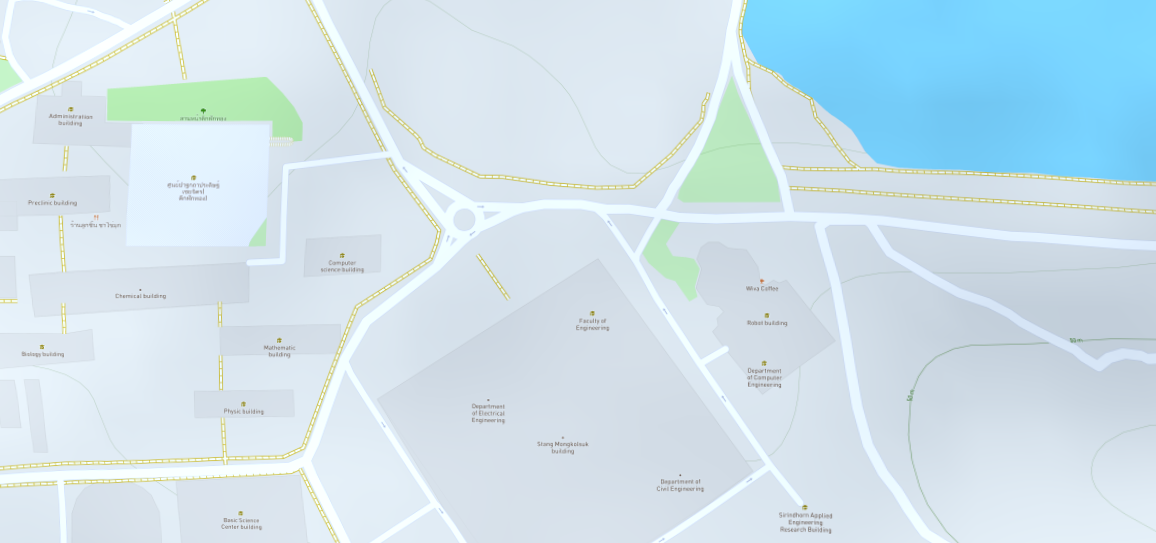
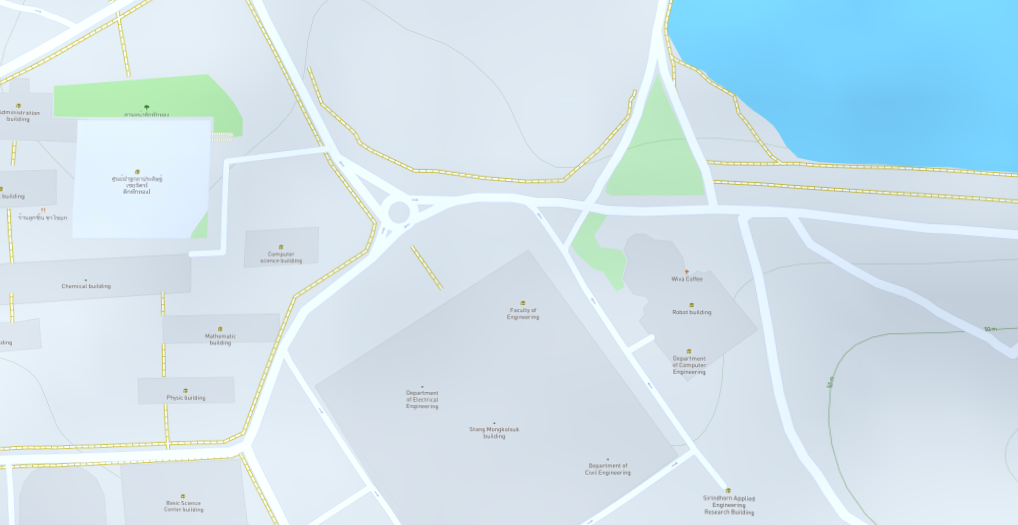
hotfixed
unlimited readpic fixed

diff --git a/Assets/ReportPageController.cs b/Assets/ReportPageController.cs
@@ -45,6 +45,10 @@ public class ReportPageController : MonoBehaviour
     Texture2D[] animate_texture_E;
     Texture2D[] animate_texture_I;
 
+    bool finishread_text=false;
+    bool finishread_pic=true;
+
+    bool firsttimeread=true;
     //end object
 //==============================================
     //Other Script
@@ -53,6 +57,7 @@ public class ReportPageController : MonoBehaviour
     public GameObject doglayer;
 
     public GameObject infectlayer;
+
 
 //==============================================
     
@@ -64,6 +69,7 @@ public class ReportPageController : MonoBehaviour
       Showreport_button.GetComponent<Button>().onClick.AddListener(showreportpage);
       Animation_button.GetComponent<Button>().onClick.AddListener(Runanimate_map);
       dropdownday_heatmappage.onValueChanged.AddListener(delegate {Rereadanimate_Image(dropdownday_heatmappage);});
+      dropdownday_reportpage.onValueChanged.AddListener(delegate { readtextfile(dropdownday_reportpage.value);});
       systemday=mapdata.dayloop;
       frameperday=mapdata.loopperday;
       for(int j=1;j<systemday;j++)
@@ -83,7 +89,15 @@ public class ReportPageController : MonoBehaviour
     {
        if(reportpage.activeSelf)
         {
-            readtextfile(dropdownday_reportpage.value);
+            if(firsttimeread)
+            {
+                firsttimeread=false;
+                Rereadanimate_Image(dropdownday_heatmappage);
+                readtextfile(dropdownday_reportpage.value);
+                readimage_S(dropdownday_heatmappage.value);
+                readimage_E(dropdownday_heatmappage.value);
+                readimage_I(dropdownday_heatmappage.value);
+            }
         }
         else if (heatmappage.activeSelf)
         {
@@ -91,6 +105,7 @@ public class ReportPageController : MonoBehaviour
             if(Animate_onrun)
             {
                     Animation_button_text.text="Stop Animation";
+                    finishread_pic=true;
                     int animateindex = (int)((Time.time * framepersec) % animate_texture_S.Length);
                     S_image.texture=animate_texture_S[animateindex];
                     E_image.texture=animate_texture_E[animateindex];
@@ -98,10 +113,15 @@ public class ReportPageController : MonoBehaviour
             }
             if(!Animate_onrun)
             {
+                if(finishread_pic)
+                {
+                finishread_pic=false;
                 Animation_button_text.text="Run Animation";
-                 readimage_S(dropdownday_heatmappage.value);
-                 readimage_E(dropdownday_heatmappage.value);
-                 readimage_I(dropdownday_heatmappage.value);
+                readimage_S(dropdownday_heatmappage.value);
+                readimage_E(dropdownday_heatmappage.value);
+                readimage_I(dropdownday_heatmappage.value);
+                }
+                
             }
         }
     }
@@ -129,7 +149,6 @@ public class ReportPageController : MonoBehaviour
         heatmappage.SetActive(true);
         doglayer.SetActive(false);
         infectlayer.SetActive(false);
-        Rereadanimate_Image(dropdownday_heatmappage);
     }
     private void showreportpage()
     {
@@ -248,7 +267,17 @@ public class ReportPageController : MonoBehaviour
             animate_texture_E[i].LoadImage(pngBytes_E);
             pngBytes_I=System.IO.File.ReadAllBytes(path_i);
             animate_texture_I[i].LoadImage(pngBytes_I);
+
+              
         }
+
+        if(!Animate_onrun)
+        {
+                readimage_S(dropdownday_heatmappage.value);
+                readimage_E(dropdownday_heatmappage.value);
+                readimage_I(dropdownday_heatmappage.value);
+        }
+              
     }
 
 }

diff --git a/Assets/OnMapSpawn.cs b/Assets/OnMapSpawn.cs
@@ -238,7 +238,7 @@ public class OnMapSpawn : MonoBehaviour
     public GameObject reportpage;
 
     private Texture2D temp_realmap,temp_extendmap;
-
+    
     //FOR INSTRUCTION UI
     Ray ray;
     RaycastHit hit;
@@ -2045,10 +2045,10 @@ public class OnMapSpawn : MonoBehaviour
         StreamWriter sw = File.CreateText(path);
         sw.WriteLine("Tester : All sum rabies tranfer" + justwannaknow + " Tester : All sum rabies bite" + justwannaknow2 + " Tester : avg rabie bite" + justwannaknow3 + "  New r0 with all r use to divide " + newr0 + "\n");
         sw.WriteLine("Rabies Report day " + rentext_sysdate + "\n");
-        sw.WriteLine("All Dog Amount : " + sumeverypoint());
-        sw.WriteLine("Suspect amount : " + suspectsum());
-        sw.WriteLine("Expose amount : " + exposesum());
-        sw.WriteLine("Infect amount : " + infectsum());
+        sw.WriteLine("All Dog  : " + sumeverypoint());
+        sw.WriteLine("Suspected : " + suspectsum());
+        sw.WriteLine("Exposed  : " + exposesum());
+        sw.WriteLine("Infected : " + infectsum());
         sw.WriteLine("Daily R-zero : " + temp_rzero);
         sw.WriteLine("==================================");
         sw.WriteLine("Group Report day" + rentext_sysdate);
@@ -2056,14 +2056,14 @@ public class OnMapSpawn : MonoBehaviour
         for (int i = 0; i < dogeachgroup.Count; i++)
         {
             sw.WriteLine("Group " + (i + 1) + "Report");
-            sw.WriteLine("Group Dog Amount : " + everypointsum_group(i));
-            sw.WriteLine("Group Suspect amount : " + suspectsum_group(i));
-            sw.WriteLine("Group Expose amount : " + exposesum_group(i));
+            sw.WriteLine("Group Dog  : " + everypointsum_group(i));
+            sw.WriteLine("Group Suspected : " + suspectsum_group(i));
+            sw.WriteLine("Group Exposed  : " + exposesum_group(i));
             inf_rad_temp = infectsum_group(i);
-            sw.WriteLine("Group Infect amount : " + inf_rad_temp);
+            sw.WriteLine("Group Infected : " + inf_rad_temp);
             if (inf_rad_temp != 0)
             {
-                sw.WriteLine("Infect Group (sim) Radius : " + simple_inf_radius(i));
+                sw.WriteLine("Infected Group (sim) Radius : " + simple_inf_radius(i));
             }
             else
             {
@@ -2350,7 +2350,7 @@ public class OnMapSpawn : MonoBehaviour
             }
             else
             {
-                return temp_realmap.GetPixel(lon,lat);
+                return temp_realmap.GetPixel(lon,ygridsize-lat);//need flip
             }
         }
 
@@ -3989,7 +3989,7 @@ public class OnMapSpawn : MonoBehaviour
            
             initialPreDataRegister();
         }
-
+        
         //HANDLING ON MOUSE OVER TO UI FOR INSTRUCTION UI
         string foundObject = checkRayCastTargetList();
         int foundIndex = coreuicontroller.getInstructionIDFromString(foundObject);
@@ -3997,6 +3997,7 @@ public class OnMapSpawn : MonoBehaviour
             coreuicontroller.notifyInstructionTextChange(foundIndex);
         }
     }
+    
     private void overallOnClickHandlerUIController()
     {
         //if left click
@@ -4110,8 +4111,7 @@ public class OnMapSpawn : MonoBehaviour
         TextureScale.Bilinear(temp_realmap,xgridsize,ygridsize);
         TextureScale.Bilinear(temp_extendmap,extend_xgridsize,extend_ygridsize);
     }
-
-    private string checkRayCastTargetList(){
+     private string checkRayCastTargetList(){
         PointerEventData pointerEventData = new PointerEventData(EventSystem.current);
         pointerEventData.position = Input.mousePosition;
 
